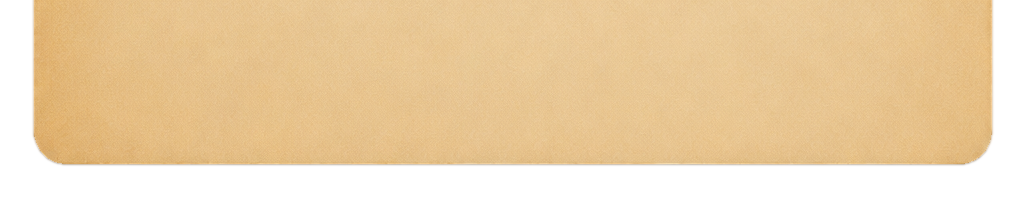
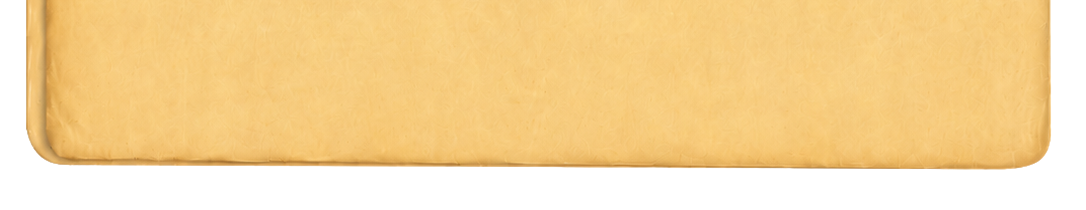
landing1012: revert folder to govland (blank); restore code OPEN GOVERNMENT masthead

diff --git a/app/landing1012/landing1012.css b/app/landing1012/landing1012.css
@@ -37,9 +37,9 @@
 
 /* Outer folder frame (govland): tab top, stretched middle, fixed bottom. */
 .og-folder { position: absolute; inset: 0; z-index: 0; display: flex; flex-direction: column; pointer-events: none; }
-.og-folder-top { width: 100%; aspect-ratio: 1024 / 240; background: url('/gl-top.webp') no-repeat; background-size: 100% 100%; }
+.og-folder-top { width: 100%; aspect-ratio: 1086 / 240; background: url('/gl-top.webp') no-repeat; background-size: 100% 100%; }
 .og-folder-mid { flex: 1 1 auto; background: url('/gl-mid.webp') no-repeat; background-size: 100% 100%; }
-.og-folder-bottom { width: 100%; aspect-ratio: 1024 / 210; background: url('/gl-bottom.webp') no-repeat; background-size: 100% 100%; margin-top: -1px; }
+.og-folder-bottom { width: 100%; aspect-ratio: 1086 / 210; background: url('/gl-bottom.webp') no-repeat; background-size: 100% 100%; margin-top: -1px; }
 
 /* Paper sheet placed inside the folder, below the nav; the articles sit on it. */
 .og-paper { position: relative; margin-top: 16px; filter: drop-shadow(0 6px 16px rgba(0, 0, 0, 0.28)); }
@@ -53,14 +53,14 @@
 .og-content {
   position: relative;
   z-index: 1;
-  /* big top padding pushes the nav BELOW the "OPEN GOVERNMENT" painted into the folder */
-  padding: clamp(150px, 20vw, 245px) clamp(34px, 5vw, 60px) clamp(40px, 5vw, 60px);
+  /* top padding clears the govland folder tab; sides clear the edges */
+  padding: clamp(50px, 7.5vw, 92px) clamp(34px, 5vw, 60px) clamp(40px, 5vw, 60px);
 }
 
-/* ---- Masthead: "OPEN GOVERNMENT" is painted into the folder; only the
-   account/sign-up tab is code, pinned to the folder's top-right tab. ---- */
-.og-masthead { display: contents; }
-.og-tab { position: absolute; top: clamp(26px, 3.4vw, 44px); right: clamp(34px, 5vw, 60px); z-index: 2; display: flex; gap: 8px; align-items: center; font-family: 'Special Elite', monospace; text-transform: uppercase; letter-spacing: 0.1em; font-size: clamp(9px, 1.1vw, 12px); white-space: nowrap; }
+/* ---- Masthead (code "OPEN GOVERNMENT" on the blank govland folder) ---- */
+.og-masthead { display: flex; justify-content: space-between; align-items: flex-end; gap: 16px; padding-bottom: 8px; }
+.og-title { font-family: 'Special Elite', 'Courier New', monospace; font-weight: 400; text-transform: uppercase; letter-spacing: 0.02em; line-height: 1; font-size: clamp(26px, 5.4vw, 62px); white-space: nowrap; margin: 0; }
+.og-tab { display: flex; gap: 8px; align-items: center; font-family: 'Special Elite', monospace; text-transform: uppercase; letter-spacing: 0.1em; font-size: clamp(9px, 1.1vw, 12px); white-space: nowrap; padding-bottom: 4px; }
 .og-tab a { color: var(--ink); text-decoration: none; }
 .og-tab a:hover { color: var(--accent); }
 .og-tab .og-signup { border: 1px solid var(--rule); padding: 4px 9px; }

diff --git a/app/landing1012/page.tsx b/app/landing1012/page.tsx
@@ -65,8 +65,9 @@ export default function Landing1012() {
         </div>
         <div className="og-content">
           {/* ── Masthead + nav (on the folder) ── */}
-          {/* Masthead "OPEN GOVERNMENT" is painted into the newgovfolder image. */}
+          {/* ── Masthead + nav (on the blank govland folder) ── */}
           <header className="og-masthead">
+            <h1 className="og-title">Open Government</h1>
             <div className="og-tab">
               <a href="/login">Account / Info</a>
               <a className="og-signup" href="/login">Sign up / Log in</a>
